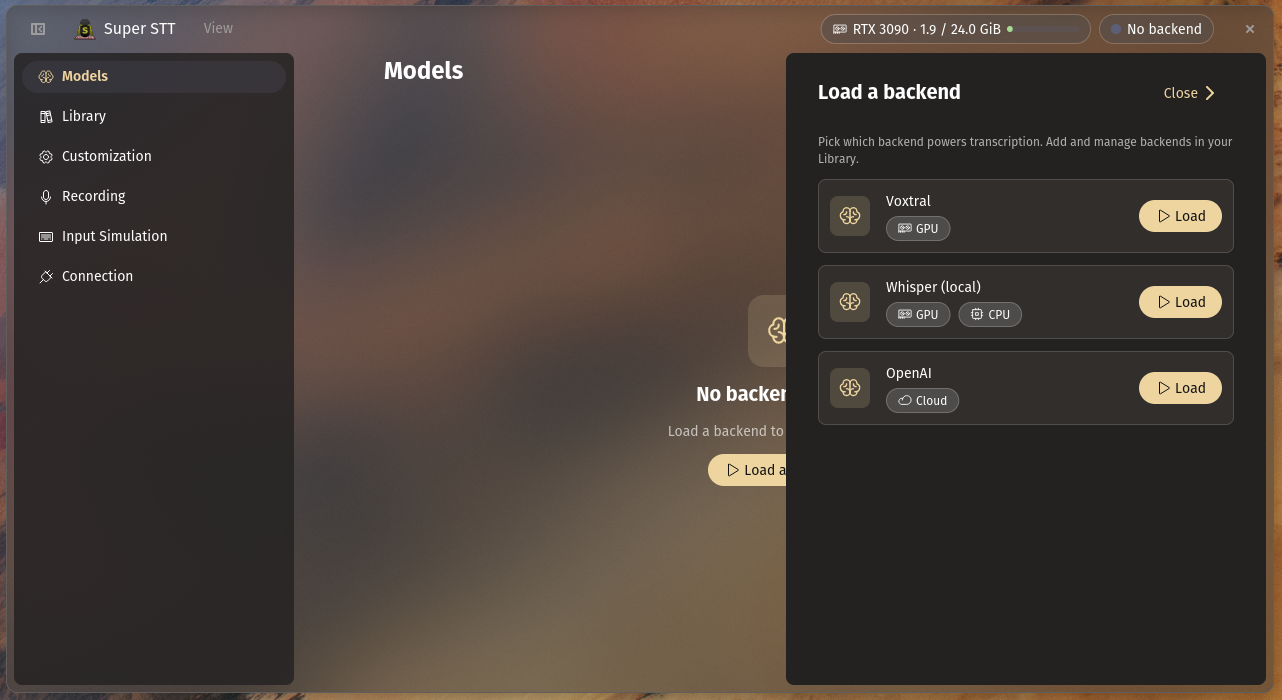
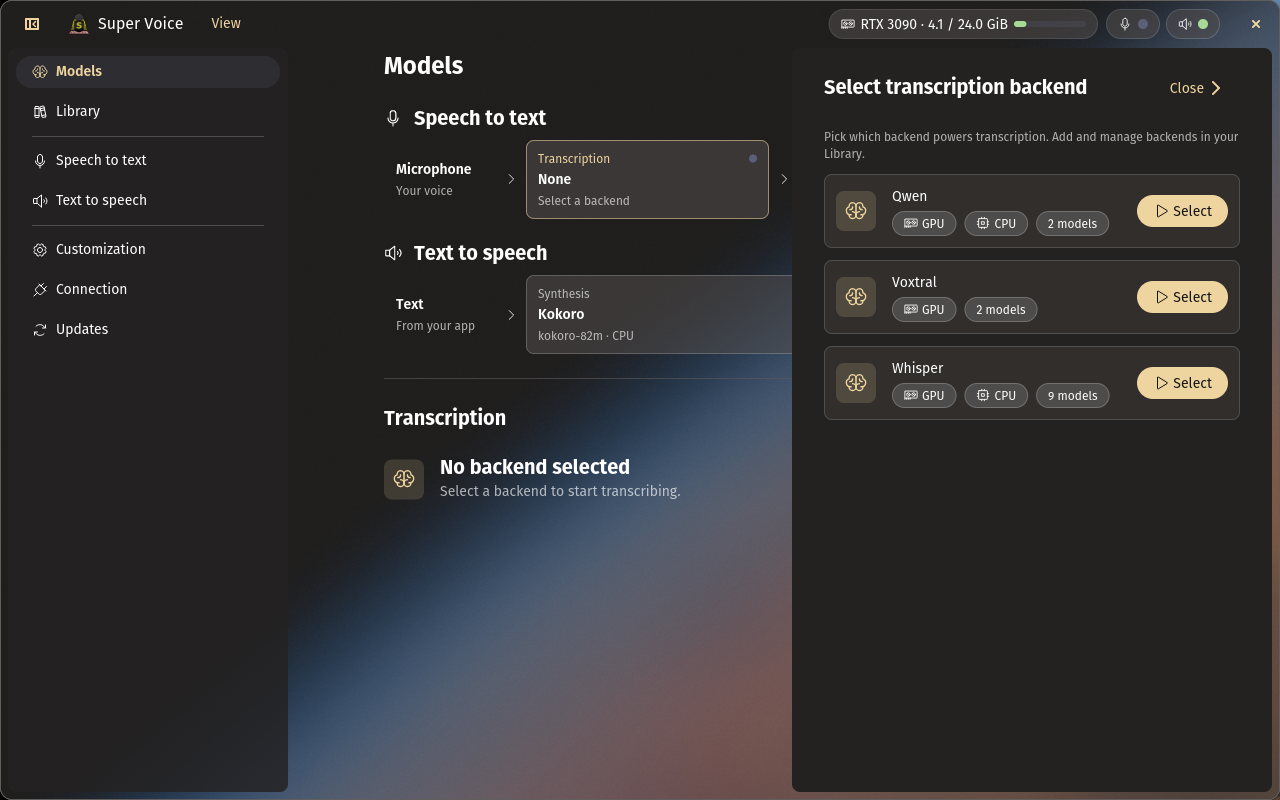
Show Super Voice in the README screenshots
Sixteen shots of the settings app, taken by `just screenshots`, in place
of Super STT's ten. They follow the nav: Models from a clean start to a
model running, the Library, Speech to text's tabs and the context editor,
Text to speech's Speech and Voices, then Customization, Connection and
Updates. Each group gets a caption in a plain sentence.

app-8 is now the Recording tab, so the metainfo's audio feedback shot
points at Customization, app-14.

Claude-Session: https://claude.ai/code/session_012Megn1Y2gHTPPtjaVNQrNX

diff --git a/README.md b/README.md
@@ -122,22 +122,22 @@ This is a snapshot. The app always shows the current catalog, published live at 
 
 ## 🖼 Screenshots
 
-**Models & backends** — load a backend, choose a model, and pick where it runs.
+**Models.** Select a backend, pick a model, and choose where it runs.
 
 <table>
 <tr>
 <td align="center"><strong>Clean start</strong><br><img src=".github/assets/screenshots/app-1.png" width="270"></td>
-<td align="center"><strong>Load a backend</strong><br><img src=".github/assets/screenshots/app-2.png" width="270"></td>
+<td align="center"><strong>Select a backend</strong><br><img src=".github/assets/screenshots/app-2.png" width="270"></td>
 <td align="center"><strong>Pick a model</strong><br><img src=".github/assets/screenshots/app-3.png" width="270"></td>
 </tr>
 <tr>
-<td align="center"><strong>Run on CPU or GPU</strong><br><img src=".github/assets/screenshots/app-4.png" width="270"></td>
-<td align="center"><strong>Select language</strong><br><img src=".github/assets/screenshots/app-5.png" width="270"></td>
+<td align="center"><strong>Choose where it runs</strong><br><img src=".github/assets/screenshots/app-4.png" width="270"></td>
+<td align="center"><strong>Select a language</strong><br><img src=".github/assets/screenshots/app-5.png" width="270"></td>
 <td></td>
 </tr>
 </table>
 
-**Library** — browse the catalog and manage what's installed.
+**Library.** Browse the catalog and manage what's installed.
 
 <table>
 <tr>
@@ -146,17 +146,39 @@ This is a snapshot. The app always shows the current catalog, published live at 
 </tr>
 </table>
 
-**Settings** — tune audio feedback, recording behavior, and text input.
+**Speech to text.** Set how recording stops, how text is typed, and what you are dictating.
 
 <table>
 <tr>
-<td align="center"><strong>Customization</strong><br><img src=".github/assets/screenshots/app-8.png" width="270"></td>
-<td align="center"><strong>Recording</strong><br><img src=".github/assets/screenshots/app-9.png" width="270"></td>
-<td align="center"><strong>Input simulation</strong><br><img src=".github/assets/screenshots/app-10.png" width="270"></td>
+<td align="center"><strong>Recording</strong><br><img src=".github/assets/screenshots/app-8.png" width="400"></td>
+<td align="center"><strong>Input simulation</strong><br><img src=".github/assets/screenshots/app-9.png" width="400"></td>
+</tr>
+<tr>
+<td align="center"><strong>Contexts</strong><br><img src=".github/assets/screenshots/app-10.png" width="400"></td>
+<td align="center"><strong>Edit a context</strong><br><img src=".github/assets/screenshots/app-11.png" width="400"></td>
 </tr>
 </table>
 
-**Panel visualizer** — the COSMIC applet shows your mic input live in the panel, in three styles.
+**Text to speech.** Hear a test line, and make voices from your own recordings.
+
+<table>
+<tr>
+<td align="center"><strong>Speech</strong><br><img src=".github/assets/screenshots/app-12.png" width="400"></td>
+<td align="center"><strong>Voices</strong><br><img src=".github/assets/screenshots/app-13.png" width="400"></td>
+</tr>
+</table>
+
+**Settings.** Tune audio feedback, check the connection, and stay up to date.
+
+<table>
+<tr>
+<td align="center"><strong>Customization</strong><br><img src=".github/assets/screenshots/app-14.png" width="270"></td>
+<td align="center"><strong>Connection</strong><br><img src=".github/assets/screenshots/app-15.png" width="270"></td>
+<td align="center"><strong>Updates</strong><br><img src=".github/assets/screenshots/app-16.png" width="270"></td>
+</tr>
+</table>
+
+**Panel visualizer.** The COSMIC applet shows your mic input live in the panel, in three styles.
 
 <p align="center"><strong>Waveforms</strong><br><img src=".github/assets/screenshots/visualization-waveforms.png" width="100%"></p>
 <p align="center"><strong>Equalizer</strong><br><img src=".github/assets/screenshots/visualization-equalizer.png" width="100%"></p>
